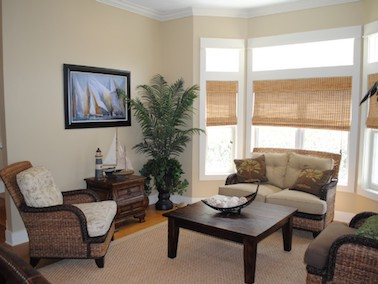
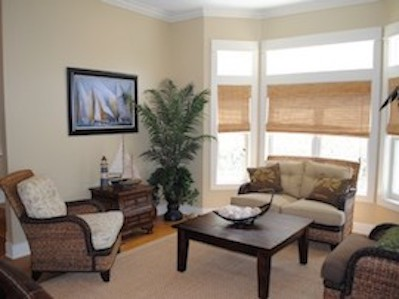
Updated LightGallery thumbnail CSS
Changed thumbnail container to appropriate size.

diff --git a/css/build/main.css b/css/build/main.css
@@ -1,2 +1,2 @@
-body{margin:0px;padding:0px}.hero{height:750px}.gallery{width:100%;height:750px}.gallery div{height:100%}.gallery div img{background-repeat:no-repeat;height:100%}.flickity-page-dots{bottom:12px}.flickity-page-dots .dot{width:12px;height:12px;opacity:1;background:transparent;border:2px solid white}.flickity-page-dots .dot.is-selected{background:white}@keyframes float{0%{bottom:0}50%{bottom:15px}100%{bottom:0}}#base{animation:float 2s 0s infinite ease-in-out;background:#aacec4;display:block;height:95px;margin:0 auto;position:absolute;left:46%;width:100px}#base:before{border-bottom:35px solid #aacec4;border-left:50px solid transparent;border-right:50px solid transparent;content:"";height:0;left:0;position:absolute;top:-35px;width:0}#acc-hero{background-image:url("../../img/ocean_view1.jpg");background-position:center;background-repeat:no-repeat;background-size:cover;height:500px}.container{display:flex;height:270px}#stay{background-color:#ddcebb;font-size:100px;padding:30px;width:40%}#stay #staySquare{border:4px solid black;display:flex;height:200px;margin:0 auto;width:100%}#stay #staySquare img{display:inline-block;height:60px;margin:0 auto;padding-top:65px;width:350px}#gazebo{background-color:#ebe2d7;padding:20px;width:55%}#gazebo img{display:flex;height:220px;margin:0 auto;width:100%}#circle-container{align-content:flex-start;display:flex;height:400px;flex-flow:row wrap;padding-top:50px;justify-content:center;-webkit-flex-flow:row wrap}#circle-container .circle{border:8px solid #aacec4;border-radius:1000px;border-spacing:10px;height:250px;margin:2.5em;width:250px}#circle-container .weddingPhoto{background-image:url("../../img/Wedding.jpg");background-position:center;background-repeat:no-repeat;background-size:cover}#circle-container .toDoCircle{background-image:url("../../img/to_do.png");background-position:center center;background-repeat:no-repeat;background-size:205%;border:none}#circle-container .poolsidePhoto{background-image:url("../../img/poolside_1.jpg");background-position:center;background-repeat:no-repeat;background-size:cover}#testimonials{background-image:url("../../img/lake-carillon.jpg");background-position:center;background-repeat:no-repeat;background-size:cover;height:500px}#contactUs{height:300px;padding-top:150px}#contactUs #form-wrapper{border:2px solid #ddcebb;box-sizing:border-box;height:250px;margin:0 auto;padding-top:10px;padding-left:100px;width:800px}#contactUs label,#contactUs input{display:block}#contactUs label{margin-bottom:20px}#acc-gallery-wrapper{height:500px}#acc-gallery-wrapper h1{margin:0 auto}footer{background-color:#aacec4;height:120px}
+body{margin:0px;padding:0px}.hero{height:750px}.gallery{width:100%;height:750px}.gallery div{height:100%}.gallery div img{background-repeat:no-repeat;height:100%}.flickity-page-dots{bottom:12px}.flickity-page-dots .dot{width:12px;height:12px;opacity:1;background:transparent;border:2px solid white}.flickity-page-dots .dot.is-selected{background:white}@keyframes float{0%{bottom:0}50%{bottom:15px}100%{bottom:0}}#base{animation:float 2s 0s infinite ease-in-out;background:#aacec4;display:block;height:95px;margin:0 auto;position:absolute;left:46%;width:100px}#base:before{border-bottom:35px solid #aacec4;border-left:50px solid transparent;border-right:50px solid transparent;content:"";height:0;left:0;position:absolute;top:-35px;width:0}#acc-hero{background-image:url("../../img/ocean_view1.jpg");background-position:center;background-repeat:no-repeat;background-size:cover;height:500px}.container{display:flex;height:270px}#stay{background-color:#ddcebb;font-size:100px;padding:30px;width:40%}#stay #staySquare{border:4px solid black;display:flex;height:200px;margin:0 auto;width:100%}#stay #staySquare img{display:inline-block;height:60px;margin:0 auto;padding-top:65px;width:350px}#gazebo{background-color:#ebe2d7;padding:20px;width:55%}#gazebo img{display:flex;height:220px;margin:0 auto;width:100%}#circle-container{align-content:flex-start;display:flex;height:400px;flex-flow:row wrap;padding-top:50px;justify-content:center;-webkit-flex-flow:row wrap}#circle-container .circle{border:8px solid #aacec4;border-radius:1000px;border-spacing:10px;height:250px;margin:2.5em;width:250px}#circle-container .weddingPhoto{background-image:url("../../img/Wedding.jpg");background-position:center;background-repeat:no-repeat;background-size:cover}#circle-container .toDoCircle{background-image:url("../../img/to_do.png");background-position:center center;background-repeat:no-repeat;background-size:205%;border:none}#circle-container .poolsidePhoto{background-image:url("../../img/poolside_1.jpg");background-position:center;background-repeat:no-repeat;background-size:cover}#testimonials{background-image:url("../../img/lake-carillon.jpg");background-position:center;background-repeat:no-repeat;background-size:cover;height:500px}#contactUs{height:300px;padding-top:150px}#contactUs #form-wrapper{border:2px solid #ddcebb;box-sizing:border-box;height:250px;margin:0 auto;padding-top:10px;padding-left:100px;width:800px}#contactUs label,#contactUs input{display:block}#contactUs label{margin-bottom:20px}#acc-gallery-wrapper{height:500px}#acc-gallery-wrapper h1{margin:0 auto}#acc-gallery-wrapper .thumb{max-height:200px}footer{background-color:#aacec4;height:120px}
 /*# sourceMappingURL=main.css.map */

diff --git a/accomidations.html b/accomidations.html
@@ -12,13 +12,12 @@
 <section id = "acc-gallery-wrapper">
   <h1> Accomidations</h1>
   <div id="lightgallery">
-  <a href="img/den1.jpg">
-      <img src="img/den1-thumb.jpg" />
-  </a>
-  <a href="img/den2.jpg">
-      <img src="img/den2-thumb.jpg" />
-  </a>
-
+    <a href="img/den1.jpg">
+        <img class = "thumb" src="img/den1-thumb.jpg"/>
+    </a>
+    <a href="img/den2.jpg">
+        <img class = "thumb" src="img/den2-thumb.jpg"/>
+    </a>
 </div>
 </section>
 <body>

diff --git a/css/main.scss b/css/main.scss
@@ -216,6 +216,9 @@ body {
   h1{
     margin: 0 auto;
   }
+  .thumb {
+    max-height: 200px;
+  }
 }
 
 
